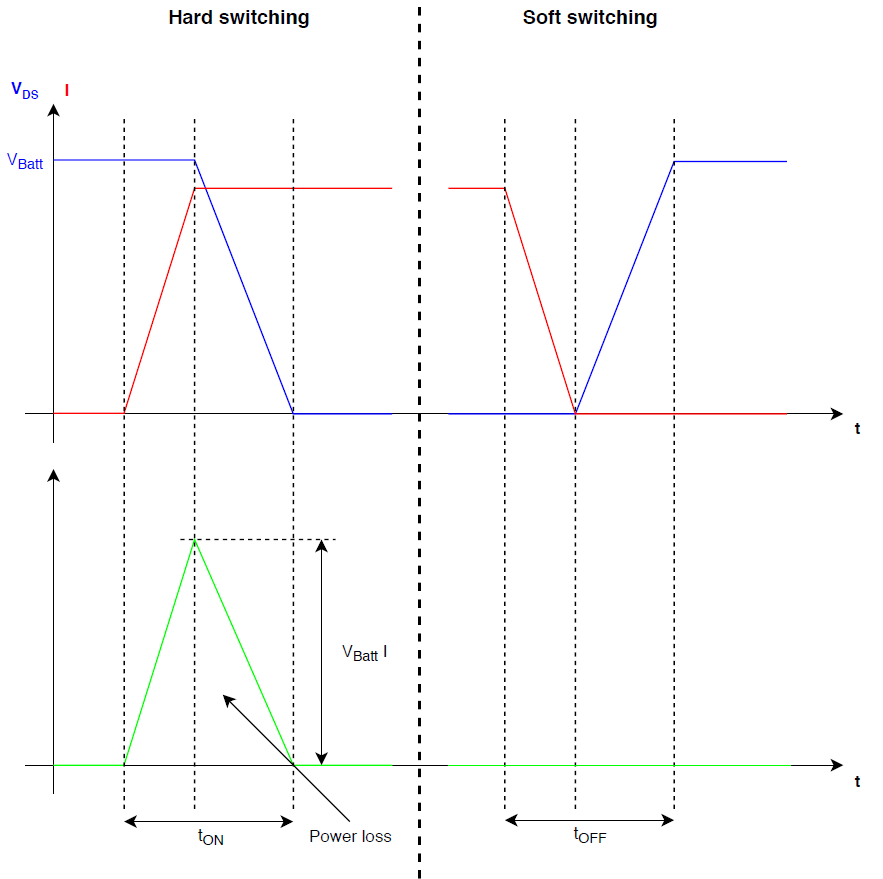
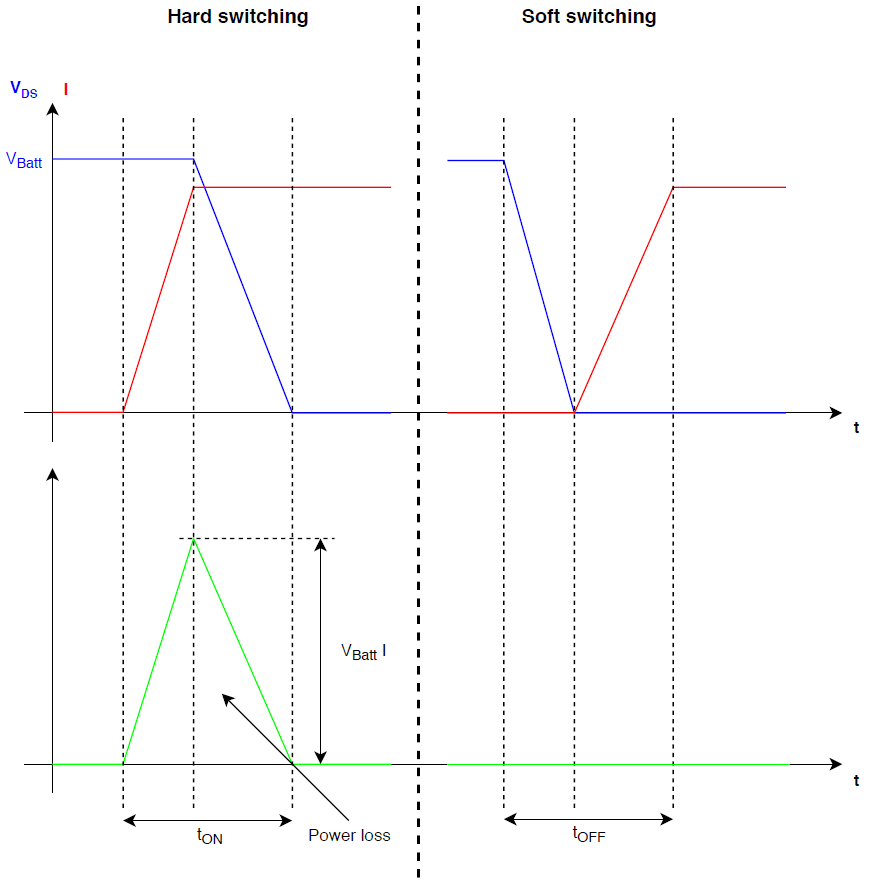
Updates from Overleaf

diff --git a/sections/software/ps/uart.tex b/sections/software/ps/uart.tex
@@ -1,6 +1,5 @@
 \subsection{Computer interface}
-
-To keep track of the system, start the converter and change the gains for the controllers an interface between the embedded controller and a computer is made. The interface is made in a simple low-level way with a predefined message structure and limited error handling. The structure can be seen in table \ref{tab:message_structure}. 
+An interface between the embedded controller and a computer is implemented to monitor the system, start the inverter and change the gains for the controllers. The interface is made in a simple low-level way with a predefined message structure and limited error handling. The structure can be seen in table \ref{tab:message_structure}. 
 
 
 \begin{table}[H]
@@ -19,7 +18,7 @@ The first character of the message contains an ID of the variable that the messa
 
 The second character describes if the message is a read or write command.
 
-The third till sixth character are only used for the write command. They contain the value to which the variable from the second character should be changed to. The format of the value can be seen in table \ref{tab:variable_ids}. To be able to handle digits the gains send as values from $0000 \rightarrow 9999$ but in the controller these are mapped to $00.00 \rightarrow 99.99$.
+The third till sixth character are only used for the write command. They contain the value to which the variable should be changed to. The format of the value can be seen in table \ref{tab:variable_ids}. To handle digits especially for the controller gains the values from $0000 \rightarrow 9999$ are mapped to $00.00 \rightarrow 99.99$ before being added to the controller.
 
 
 \begin{table}[H]
@@ -39,13 +38,13 @@ ID & Valid values                                               & Valid commands
 
 An example of how the communication can be seen on figure \ref{fig:pc_interface}. 
 
-Line 1 is a command to write the value $03.46$ to \textit{Ki\textunderscore D}. 
+Line 1 is a command to write the value $03.46$ to the variable with ID=2 which is \textit{Ki\textunderscore D}. 
 
 Line 2 is a read command of the same variable. 
 
 Line 3 is the reply from the embedded system.
 
-Line 5 is a write command to start the inverter. Line 6 and 7 are the same as 2 and 3 but for the inverter state.
+Line 5 is a write command to write the value \textit{1} to the variable with ID=0 which translates to sending a start command to the inverter. Line 6 and 7 are the same as 2 and 3 but for the inverter state.
 
 Line 9 is a command to write the value $15.23$ to the gain \textit{Ki\textunderscore Q}.
 

diff --git a/sections/software/ps/controller.tex b/sections/software/ps/controller.tex
@@ -6,10 +6,10 @@ The PI-controller is implemented in \textit{c} on the processing system in a obj
 /* Declare controllers */
 Controller cQ;
 Controller cD;
-const double kpQ = 1;
-const double kiQ = 1;
-const double kpD = 1;
-const double kiD = 1;
+f32 kpQ = 1;
+f32 kiQ = 1;
+f32 kpD = 1;
+f32 kiD = 1;
 
 void initControllers(){
     /* Initialize controllers with gains */
@@ -22,30 +22,32 @@ When the motor is running the only thing needed to be done is to input the new v
 
 \begin{lstlisting}[style=c, caption=Usage of PI-controller., label=code:pi_controller2]
     /* Run controller */
-    double outD = getOutput(&cD, iD);
-    double outQ = getOutput(&cQ, iQ);
+    f32 outD = getOutput(&cD, iD);
+    f32 outQ = getOutput(&cQ, iQ);
 \end{lstlisting}
 
 The implementation of the 'getOutput()' function can be seen in code sample \ref{code:pi_controller3}.
-First the controller data is collected. The data includes the gains \textit{kp} and \textit{ki}.
+First the controller gains \textit{kp} and \textit{ki} are retrieved. Then the controller's integrator part is updated and then retrieved.
 
 The output of the controller is found with the following equation.
 \begin{equation}
-    out = kp \cdot input + ki \cdot integrator
+    u = k_p \cdot e + k_i \cdot int
 \end{equation}
 
-The control runs many times faster than the motor and therefore the integrator part of the control will experience integrator windup and a simple output limitation is implemented to avoid this.
+Where $u$ is the output, $e$ is the input to the controller, $int$ is the integrator part and $k_p$ and $k_i$ are the controller gains.
+
+The integral part of the controller might experience integrator windup because the control executing is much faster than the motor speed. To handle this a simple output limitation is implemented to limit the controller output.
 
 
 
 \begin{lstlisting}[style=c, caption=Implementation of PI-controller 'get output'-function., label=code:pi_controller3]
 /* Function to get the next output of a controller with a new input */
-double getOutput(Controller *c, double input){
+double getOutput(Controller *c, f32 input){
 	// Collect controller data
-	const double kp  = getKp(c);
-	const double ki  = getKi(c);
+	const f32 kp  = getKp(c);
+	const f32 ki  = getKi(c);
 	addToIntegrator(c, input);
-	const integrator = getIntegrator(c);
+	const f32 integrator = getIntegrator(c);
 
 	// Calculate new output
 	f32 output =  (kp * input) + (ki * integrator);

diff --git a/sections/hardware/driverboard/design.tex b/sections/hardware/driverboard/design.tex
@@ -66,3 +66,24 @@ To get the resistor values, first, the sink current must be calculated to draw t
         R_{G{\_}common} = \frac{i_{Gsource/FET} \cdot N}{V_G - V_{Miller}} - R_{pullup} - \frac{R_{G{\_}FET} + R_{G{\_}FET{\_}int}}{N}
         \label{eq:R_G_common}
     \end{equation}
+    
+    It is easy to see that when $N = 2$, the total current to be supplied and drawn by the driver is double of the indivdual MOSFETs.
+    
+    The following variables and their values, obtained from their respective datasheets or calculated, were used:
+    
+    \begin{itemize}
+        \item $i_{Gsource/FET} = 136 mA$ is the required switch-on current per MOSFET
+        \item $i_{Gsink/FET} = 680 mA$ is the required switch-off current per MOSFET
+        \item $Q_{GD} = 34 nC$ is the gate-drain charge of the MOSFET
+        \item $t_{sw{\_}on} = 250 ns$ is the desired switch-on time
+        \item $V_G = 12V$ is the gate voltage applied
+        \item $V_{Miller} = 4.4 V$ is the Miller-plateau of the MOSFET
+        \item $R_{pullup} = 2.6 \ohm$ is the gate driver IC internal pullup resistance
+        \item $R_G = 25.34 \ohm$ is the equivalent resistance seen by the gate driver
+        \item $R_{G{\_}common} = 22.1 \ohm$ is the common resistance value
+        \item $R_{G{\_}FET} = 5.17$ is the resistor for the individual MOSFETs
+        \item $R_{G{\_}FET{\_}int} = 1.7 \ohm$ is the internal gate-source resistance of the MOSFET
+        \item $N = 2$ is the number of parallel MOSFETs
+    \end{itemize}
+    
+    The diode parallel to the common resistor 

diff --git a/sections/hardware/powerboard/Power_Board.tex b/sections/hardware/powerboard/Power_Board.tex
@@ -109,9 +109,9 @@ The other cause of power loss in the MOSFETs is the switching power loss. The sw
 		\label{fig:HardSoftSwitch}
 	\end{figure} 
 
-When running the motor, the motor current has a positive and a negative half cycle. During the positive half period the current going into the motor, and in the negative half period the current going from the motor into the inverter. In the positive half period the low-side switch gets soft turned on and the high-side switch gets hard turned on 
-One transistor will only hard switch $50 \%$ of the time 
-The switching power is calculated as the area under the green line on figure \ref{fig:HardSoftSwitch}. 
+When running the motor, the motor current has a positive and a negative half cycle. During the positive half period the current going into the motor, and in the negative half period the current going from the motor into the inverter. In the positive half period the low-side switch gets soft turned on and the high-side switch gets hard turned on. Opposite in the negative half period the low-side switch is hard turned on and the high-side switch is soft turned on. This means One transistor will only hard switch $50 \%$ of the time.
+
+The switching power is calculated as the area under the green line on figure \ref{fig:HardSoftSwitch}.
 
     \begin{equation}
         P_{sw/MOSFET} = 0.5 \cdot 0.5 \cdot V_{batt} \cdot \frac{I}{N} \cdot (t_{on}+t_{off}) \cdot f_{sw}

diff --git a/sections/control/control_sections/introduction.tex b/sections/control/control_sections/introduction.tex
@@ -1,7 +1,7 @@
 \subsection{Simplified motor model}
-The motor that requires controlling is a "Motenergy ME1117 PMAC Motor", that is driving force of the go kart supplied by SDU. The parameters of the motor is in the tabel below.
+The motor that requires controlling is a "Motenergy ME1117 PMAC Motor", that is driving force of the go kart supplied by SDU. The parameters of the motor is in the table below.
 
-\begin{table}
+\begin{table} [H]
 \centering
 \begin{tabular}{|c|c|} \cline{1-2}
 \textbf{Parameters} & \textbf{Number} \\ \cline{1-2}
@@ -19,3 +19,9 @@ The motor that requires controlling is a "Motenergy ME1117 PMAC Motor", that is 
 \label{Motor_parameters_list}
 \end{table}
 
+\begin{figure}
+    \centering
+    \includegraphics{}
+    \caption{Caption}
+    \label{fig:my_label}
+\end{figure}{}

diff --git a/sections/software/pl/adc.tex b/sections/software/pl/adc.tex
@@ -3,7 +3,7 @@
 
 \begin{figure}[H]
 	\centering
-	\includegraphics[width=0.45\textwidth]{pictures/software/adc.png}
+	\includegraphics[width=0.35\textwidth]{pictures/software/adc.png}
 	\caption{}
 	\label{fig:adc_module}
 \end{figure}
